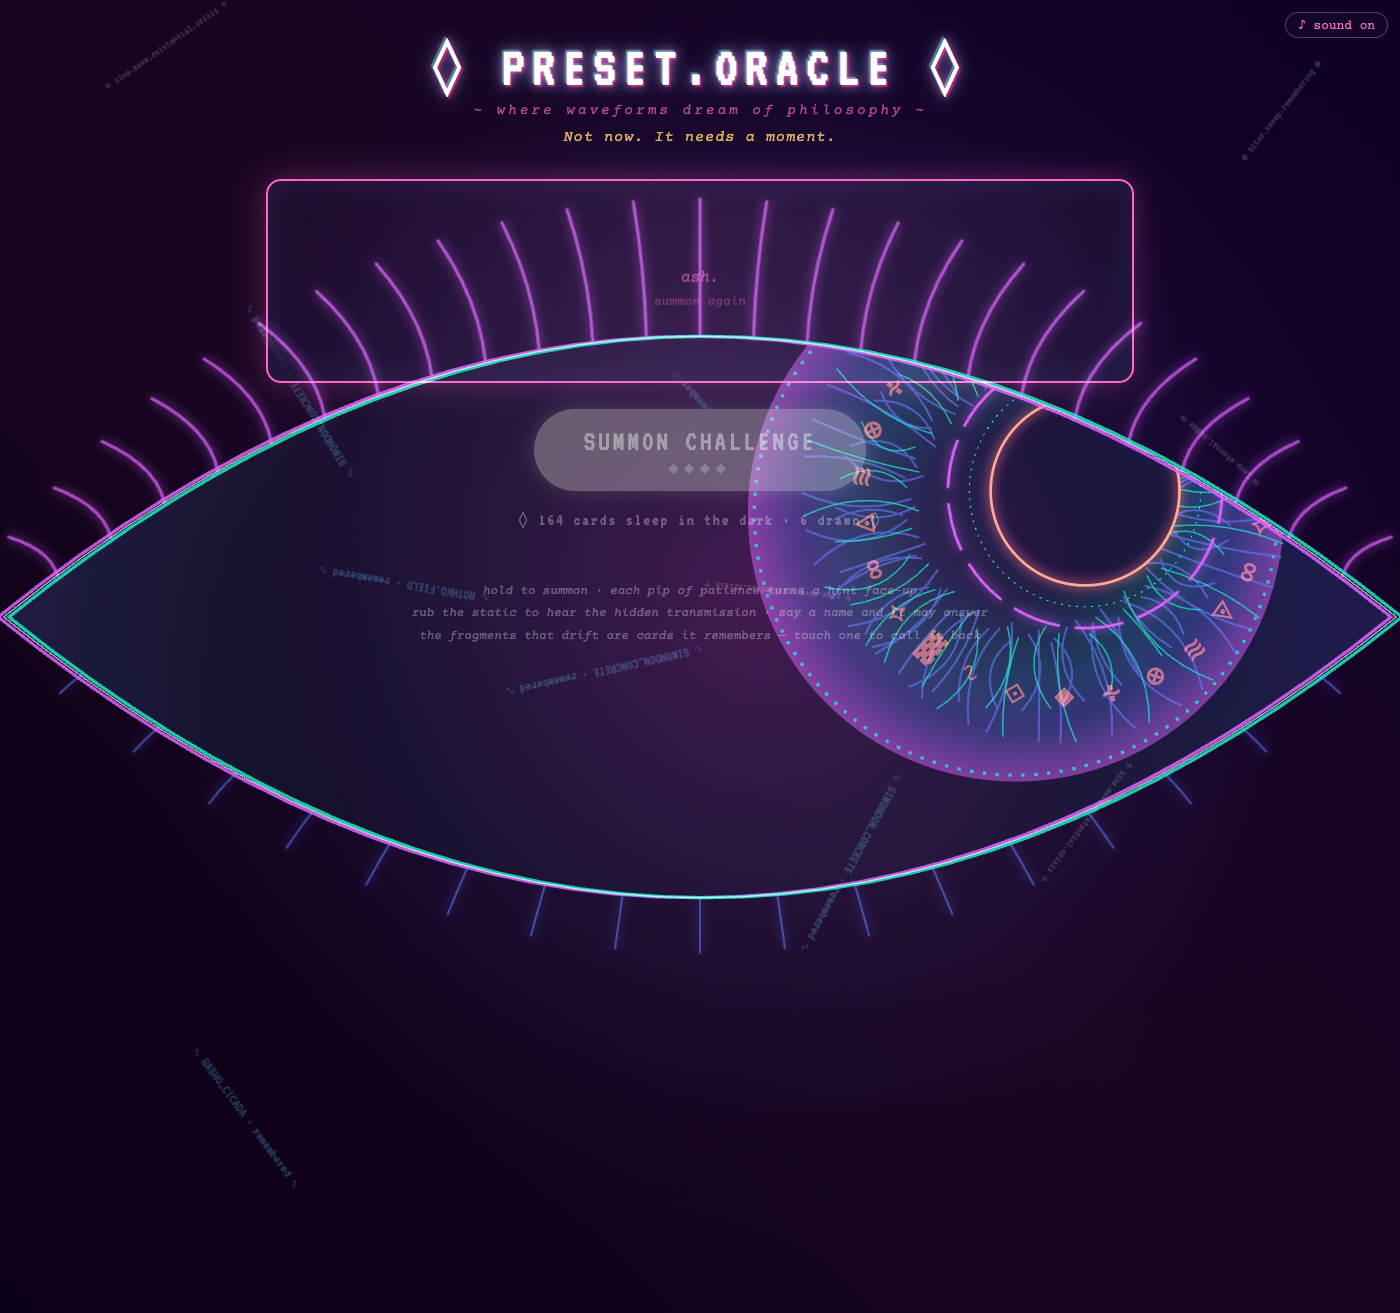
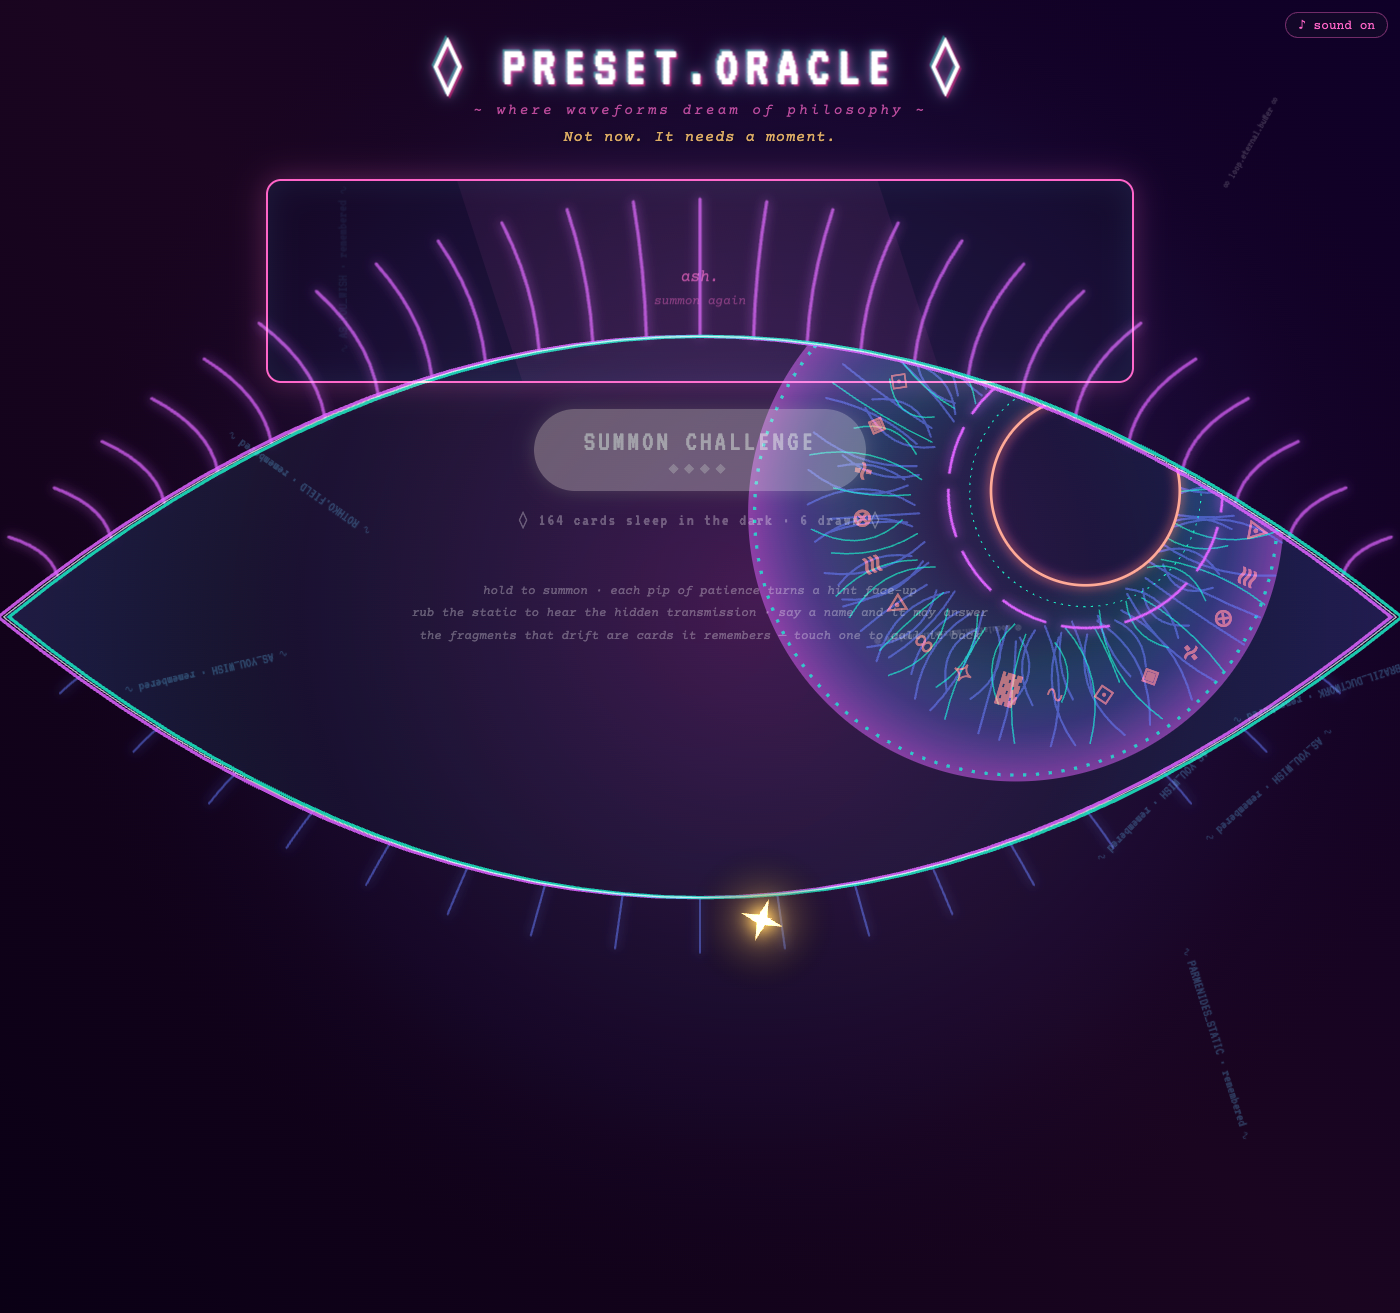
steward(Preset Oracle): the oracle's cursor: a turning star of light with a rising, twinkling trail
On Loudon's ask, driven live. The arrow is hidden everywhere; a canvas layer draws a four-point star with a halo. Moving leaves motes (dots, stars, the odd oracle glyph) that twinkle and rise like incense. It swells gold over anything touchable, bursts on press, and draws light inward while a summon charges. Reduced motion keeps the star and drops the trail. click-through 15/15.

Palace-Kind: steward
Palace-Verify: verified
Palace-Author: claude

diff --git a/Projects/Preset Oracle/oracle/Preset Oracle — the oracle.html b/Projects/Preset Oracle/oracle/Preset Oracle — the oracle.html
@@ -13,6 +13,7 @@
        the static — the hidden transmission has to be rubbed free
        the fragments — names of cards already dealt drift up; click one to recall it
        typing — say a name (rothko, basho, lebowski) and the oracle deals that card
+       the pointer — a mote of light with a rising trail; it swells over what you can touch and gathers as you charge
        accept — starts the thirty-minute gather; refuse three times running and the oracle sulks -->
 <style>
 @import url('https://fonts.googleapis.com/css2?family=VT323&family=Courier+Prime:ital@0;1&display=swap');
@@ -194,6 +195,9 @@ body {
   0% { transform: translateY(100vh) rotate(0); opacity: 0; } 10% { opacity: .55; } 90% { opacity: .55; }
   100% { transform: translateY(-100px) rotate(360deg); opacity: 0; }
 }
+/* The pointer is a mote of light drawn on its own layer; the arrow is gone everywhere. */
+html, body, button, canvas, .hint-tag, .memory-fragment, .mute { cursor: none !important; }
+#sparkle { position: fixed; inset: 0; width: 100%; height: 100%; pointer-events: none; z-index: 1100; }
 @media (prefers-reduced-motion: reduce) {
   .title, .glitch-overlay, .oracle-box::before, .hint-tag.down, .summon-btn.held { animation: none !important; }
   .memory-fragment { animation-duration: 40s !important; }
@@ -202,6 +206,7 @@ body {
 </head>
 <body>
 <div class="glitch-overlay"></div>
+<canvas id="sparkle" aria-hidden="true"></canvas>
 <svg id="bigeye" viewBox="-700 -350 1400 700" aria-hidden="true">
   <defs>
     <radialGradient id="auraG"><stop offset="0" stop-color="#ff64c8" stop-opacity=".22"/><stop offset=".55" stop-color="#c864ff" stop-opacity=".08"/><stop offset="1" stop-color="#000" stop-opacity="0"/></radialGradient>
@@ -668,6 +673,75 @@ function spawnFragments(n) {
   }, i * 1600);
 }
 setInterval(() => { if (Math.random() > 0.7) spawnFragments(1); }, 5000);
+
+/* ---------- the pointer: a mote of light, and its trail ---------- */
+// The arrow is replaced by a turning four-point star. Moving leaves motes that twinkle, rise like
+// incense and fade through the oracle's colours. It swells gold over anything you can touch,
+// bursts when you press, and draws light inward while you charge a summon.
+const sp = $("sparkle"), sx = sp.getContext("2d");
+let DPR = 1;
+function sizeSparkle() { DPR = Math.min(2, devicePixelRatio || 1); sp.width = innerWidth * DPR; sp.height = innerHeight * DPR; }
+sizeSparkle(); addEventListener("resize", sizeSparkle);
+const motes = [], cur = { x: -99, y: -99, px: -99, py: -99, show: false, hover: false, size: 14, rot: 0 };
+const HUES = ["255,100,200", "255,200,100", "100,200,255", "200,100,255", "255,255,255"];
+function mote(x, y, o = {}) {
+  if (motes.length > 280) motes.shift();
+  motes.push({ x, y, vx: o.vx ?? (Math.random() - 0.5) * 0.7, vy: o.vy ?? -0.2 - Math.random() * 0.7, life: 1,
+    decay: o.decay ?? 0.012 + Math.random() * 0.018, size: o.size ?? 1.4 + Math.random() * 3.2, c: pick(HUES),
+    star: Math.random() < 0.38, glyph: Math.random() < 0.035 ? pick(["∿", "◈", "⟡", "✦", "✧", "⋆", "∞"]) : null,
+    tw: Math.random() * 6, spin: (Math.random() - 0.5) * 0.12, rot: Math.random() * 6 });
+}
+addEventListener("pointermove", (e) => {
+  cur.show = e.pointerType !== "touch"; cur.x = e.clientX; cur.y = e.clientY;
+  if (cur.px < -50) { cur.px = cur.x; cur.py = cur.y; }
+  if (!reduced) { const d = Math.hypot(cur.x - cur.px, cur.y - cur.py), n = Math.min(7, Math.floor(d / 6)); for (let i = 0; i < n; i++) { const t = i / n; mote(cur.px + (cur.x - cur.px) * t, cur.py + (cur.y - cur.py) * t); } }
+  cur.px = cur.x; cur.py = cur.y;
+  cur.hover = !!(e.target.closest && e.target.closest("button, canvas#static, .memory-fragment.remembered"));
+});
+addEventListener("pointerdown", (e) => {
+  if (reduced) return;
+  for (let i = 0; i < 28; i++) { const a = (i / 28) * Math.PI * 2, v = 1.6 + Math.random() * 2.8; mote(e.clientX, e.clientY, { vx: Math.cos(a) * v, vy: Math.sin(a) * v, decay: 0.022 + Math.random() * 0.02, size: 1.4 + Math.random() * 2.6 }); }
+});
+document.documentElement.addEventListener("pointerleave", () => (cur.show = false));
+function star4(x, y, r, rot) {
+  sx.save(); sx.translate(x, y); sx.rotate(rot); sx.beginPath();
+  for (let i = 0; i < 8; i++) { const a = (i * Math.PI) / 4, rr = i % 2 ? r * 0.26 : r; sx.lineTo(Math.cos(a) * rr, Math.sin(a) * rr); }
+  sx.closePath(); sx.fill(); sx.restore();
+}
+(function sparkLoop(now) {
+  now = now || performance.now();
+  sx.setTransform(DPR, 0, 0, DPR, 0, 0); sx.clearRect(0, 0, innerWidth, innerHeight);
+  sx.globalCompositeOperation = "lighter";
+  if (!reduced && cur.show) {
+    if (press) for (let i = 0; i < 3; i++) { // gathering: light spirals in toward the hand
+      const a = Math.random() * Math.PI * 2, r = 70 + Math.random() * 90;
+      mote(cur.x + Math.cos(a) * r, cur.y + Math.sin(a) * r, { vx: -Math.cos(a) * r / 34 + Math.sin(a) * 1.4, vy: -Math.sin(a) * r / 34 - Math.cos(a) * 1.4, decay: 0.035 });
+    }
+    if (Math.random() < 0.22) mote(cur.x + (Math.random() - 0.5) * 16, cur.y + (Math.random() - 0.5) * 16, { size: 0.7 + Math.random() * 1.4, decay: 0.02 }); // it shimmers even at rest
+  }
+  for (let i = motes.length - 1; i >= 0; i--) {
+    const m = motes[i];
+    m.vx = m.vx * 0.965 + Math.sin(now / 420 + m.tw) * 0.025; m.vy = m.vy * 0.965 - 0.014;
+    m.x += m.vx; m.y += m.vy; m.rot += m.spin; m.life -= m.decay;
+    if (m.life <= 0) { motes.splice(i, 1); continue; }
+    const a = m.life * (0.55 + 0.45 * Math.sin(now / 85 + m.tw * 3));
+    sx.fillStyle = `rgba(${m.c},${a.toFixed(3)})`;
+    if (m.glyph) { sx.shadowBlur = 0; sx.font = `${(12 + m.size * 3) | 0}px VT323, monospace`; sx.fillText(m.glyph, m.x, m.y); }
+    else if (m.star) { sx.shadowColor = `rgba(${m.c},${a.toFixed(3)})`; sx.shadowBlur = 7; star4(m.x, m.y, m.size * 2.3 * m.life + 1, m.rot); }
+    else { sx.shadowBlur = 0; sx.beginPath(); sx.arc(m.x, m.y, Math.max(0.3, m.size * m.life), 0, 7); sx.fill(); }
+  }
+  if (cur.show) {
+    cur.rot += 0.025; cur.size += ((cur.hover ? 22 : 14) + (press ? 7 : 0) - cur.size) * 0.2;
+    const R = cur.size * 3.4, halo = sx.createRadialGradient(cur.x, cur.y, 0, cur.x, cur.y, R);
+    halo.addColorStop(0, cur.hover ? "rgba(255,200,100,.5)" : "rgba(255,100,200,.42)"); halo.addColorStop(1, "rgba(0,0,0,0)");
+    sx.shadowBlur = 0; sx.fillStyle = halo; sx.beginPath(); sx.arc(cur.x, cur.y, R, 0, 7); sx.fill();
+    sx.shadowColor = cur.hover ? "#ffc864" : "#ff64c8"; sx.shadowBlur = 18;
+    sx.fillStyle = cur.hover ? "#ffe2a8" : "#ffd6f0"; star4(cur.x, cur.y, cur.size, cur.rot);
+    sx.fillStyle = "#fff"; star4(cur.x, cur.y, cur.size * 0.45, -cur.rot * 1.6 + 0.4);
+  }
+  sx.shadowBlur = 0;
+  requestAnimationFrame(sparkLoop);
+})();
 
 /* ---------- open ---------- */
 say(LINES.idle);
